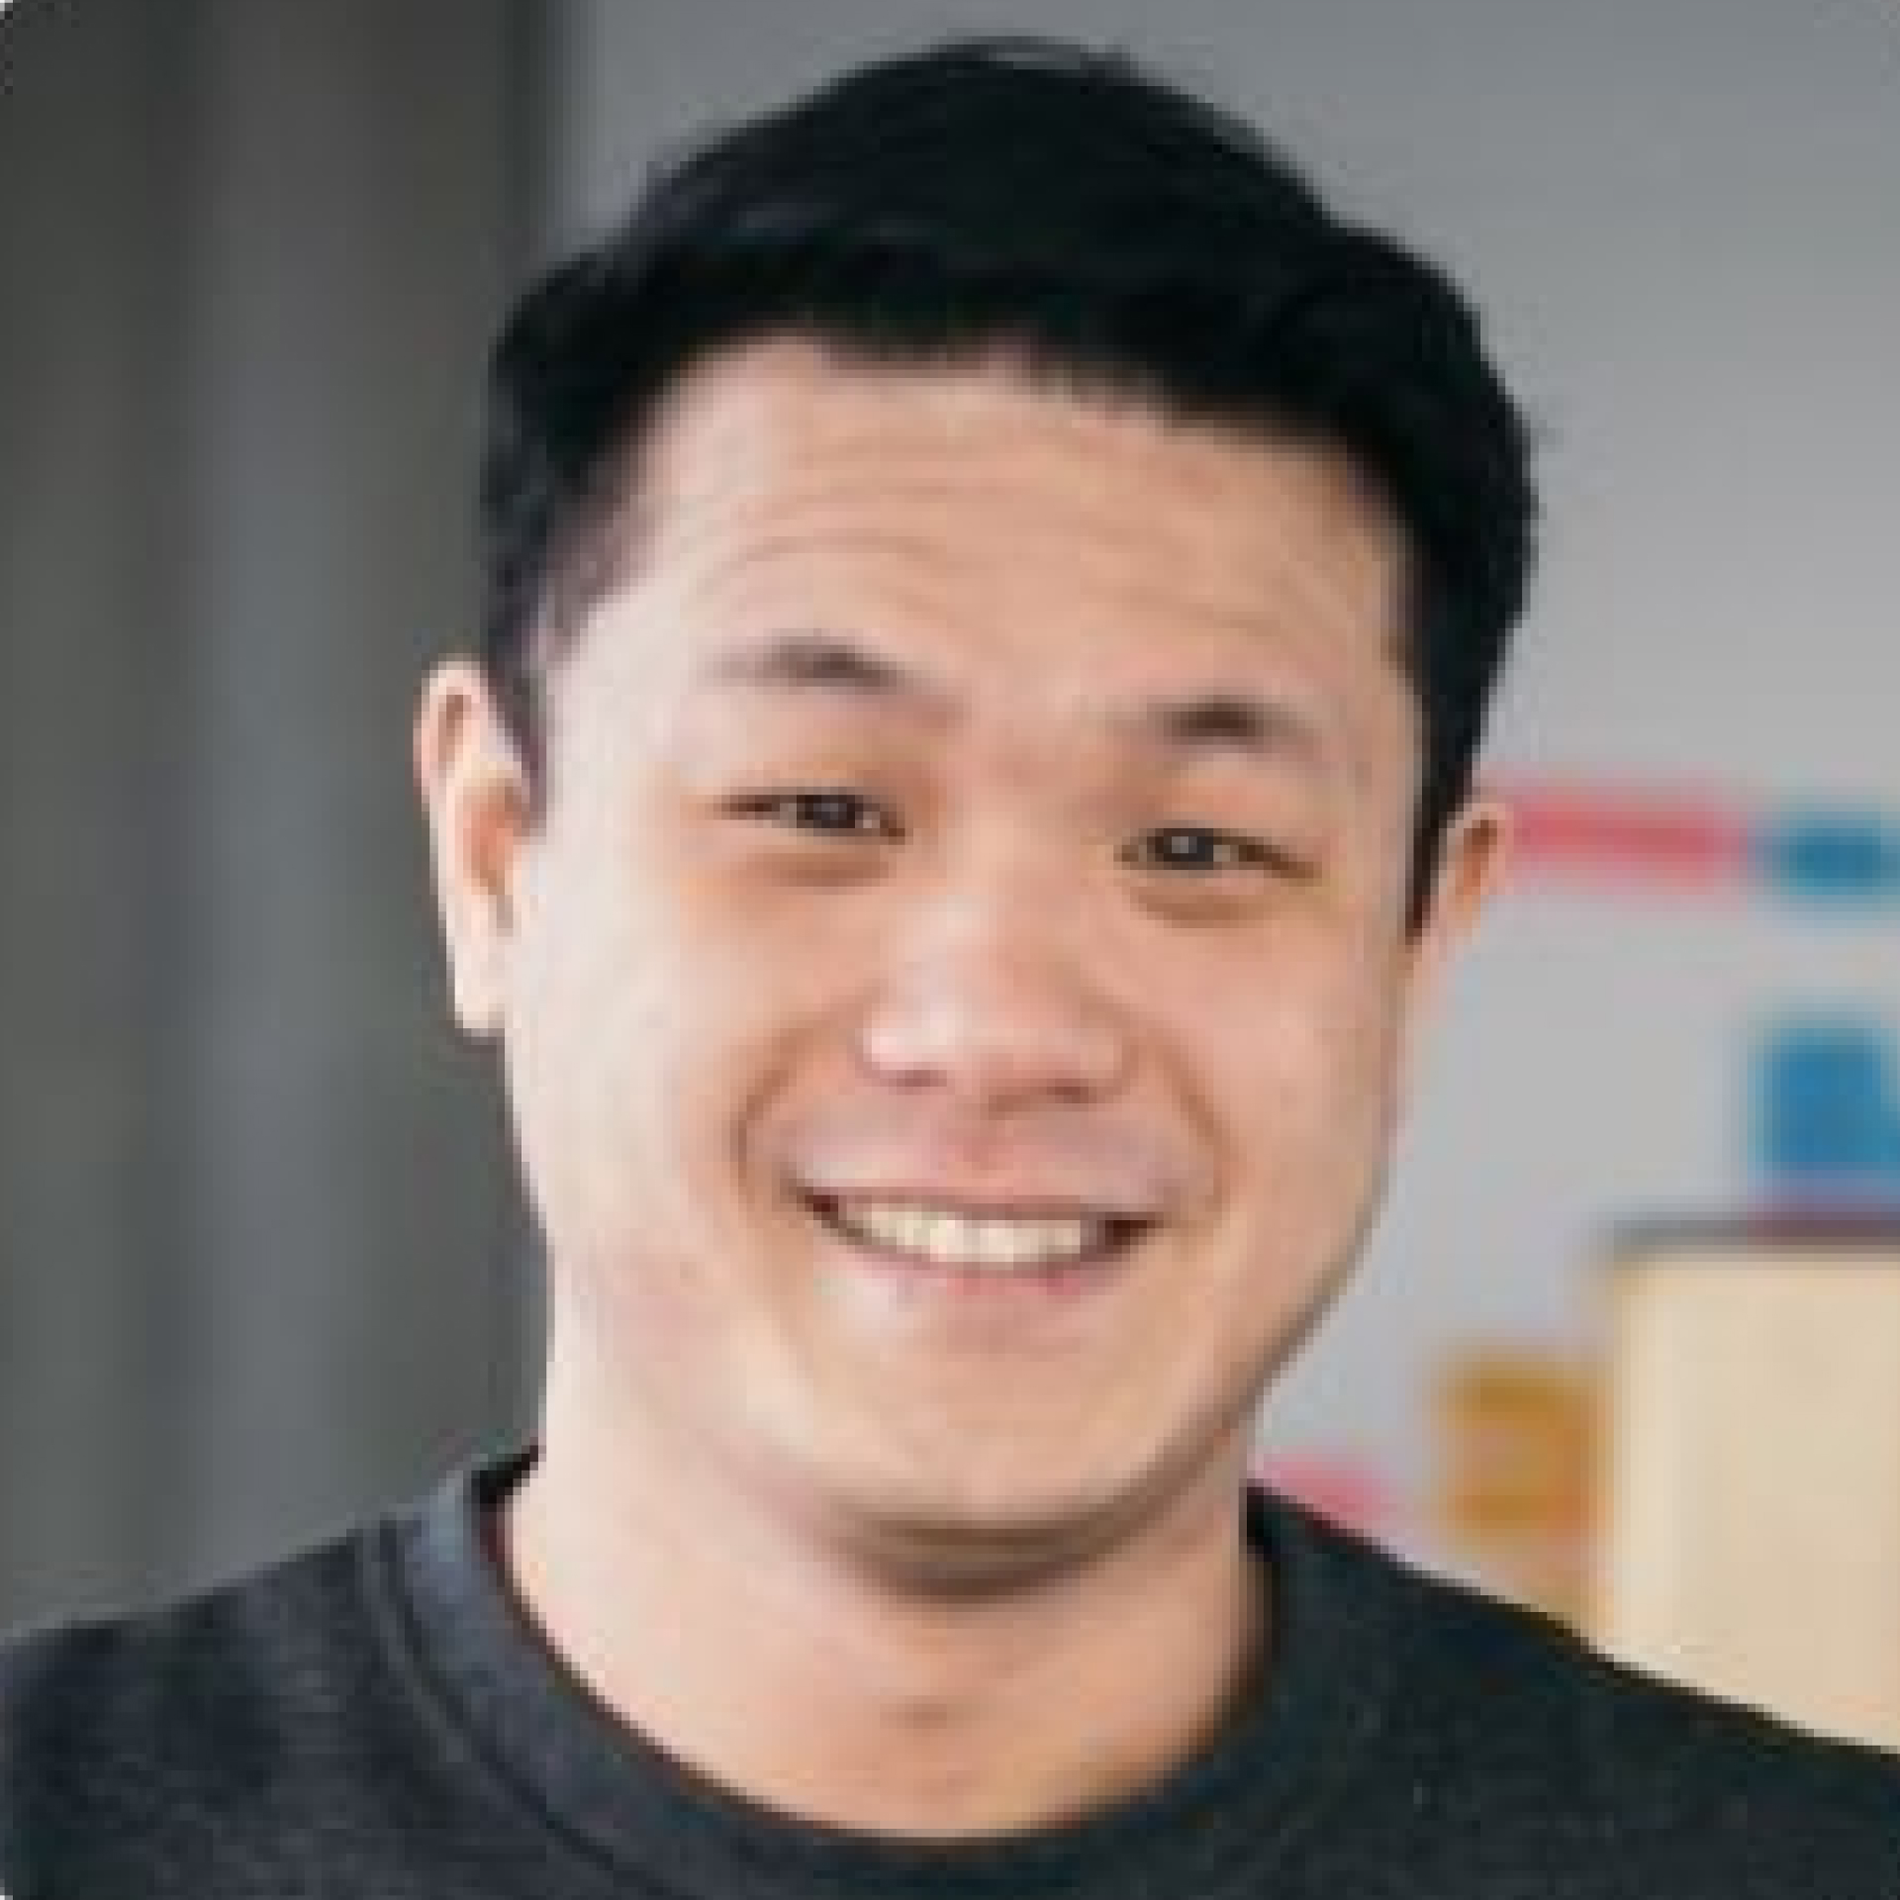
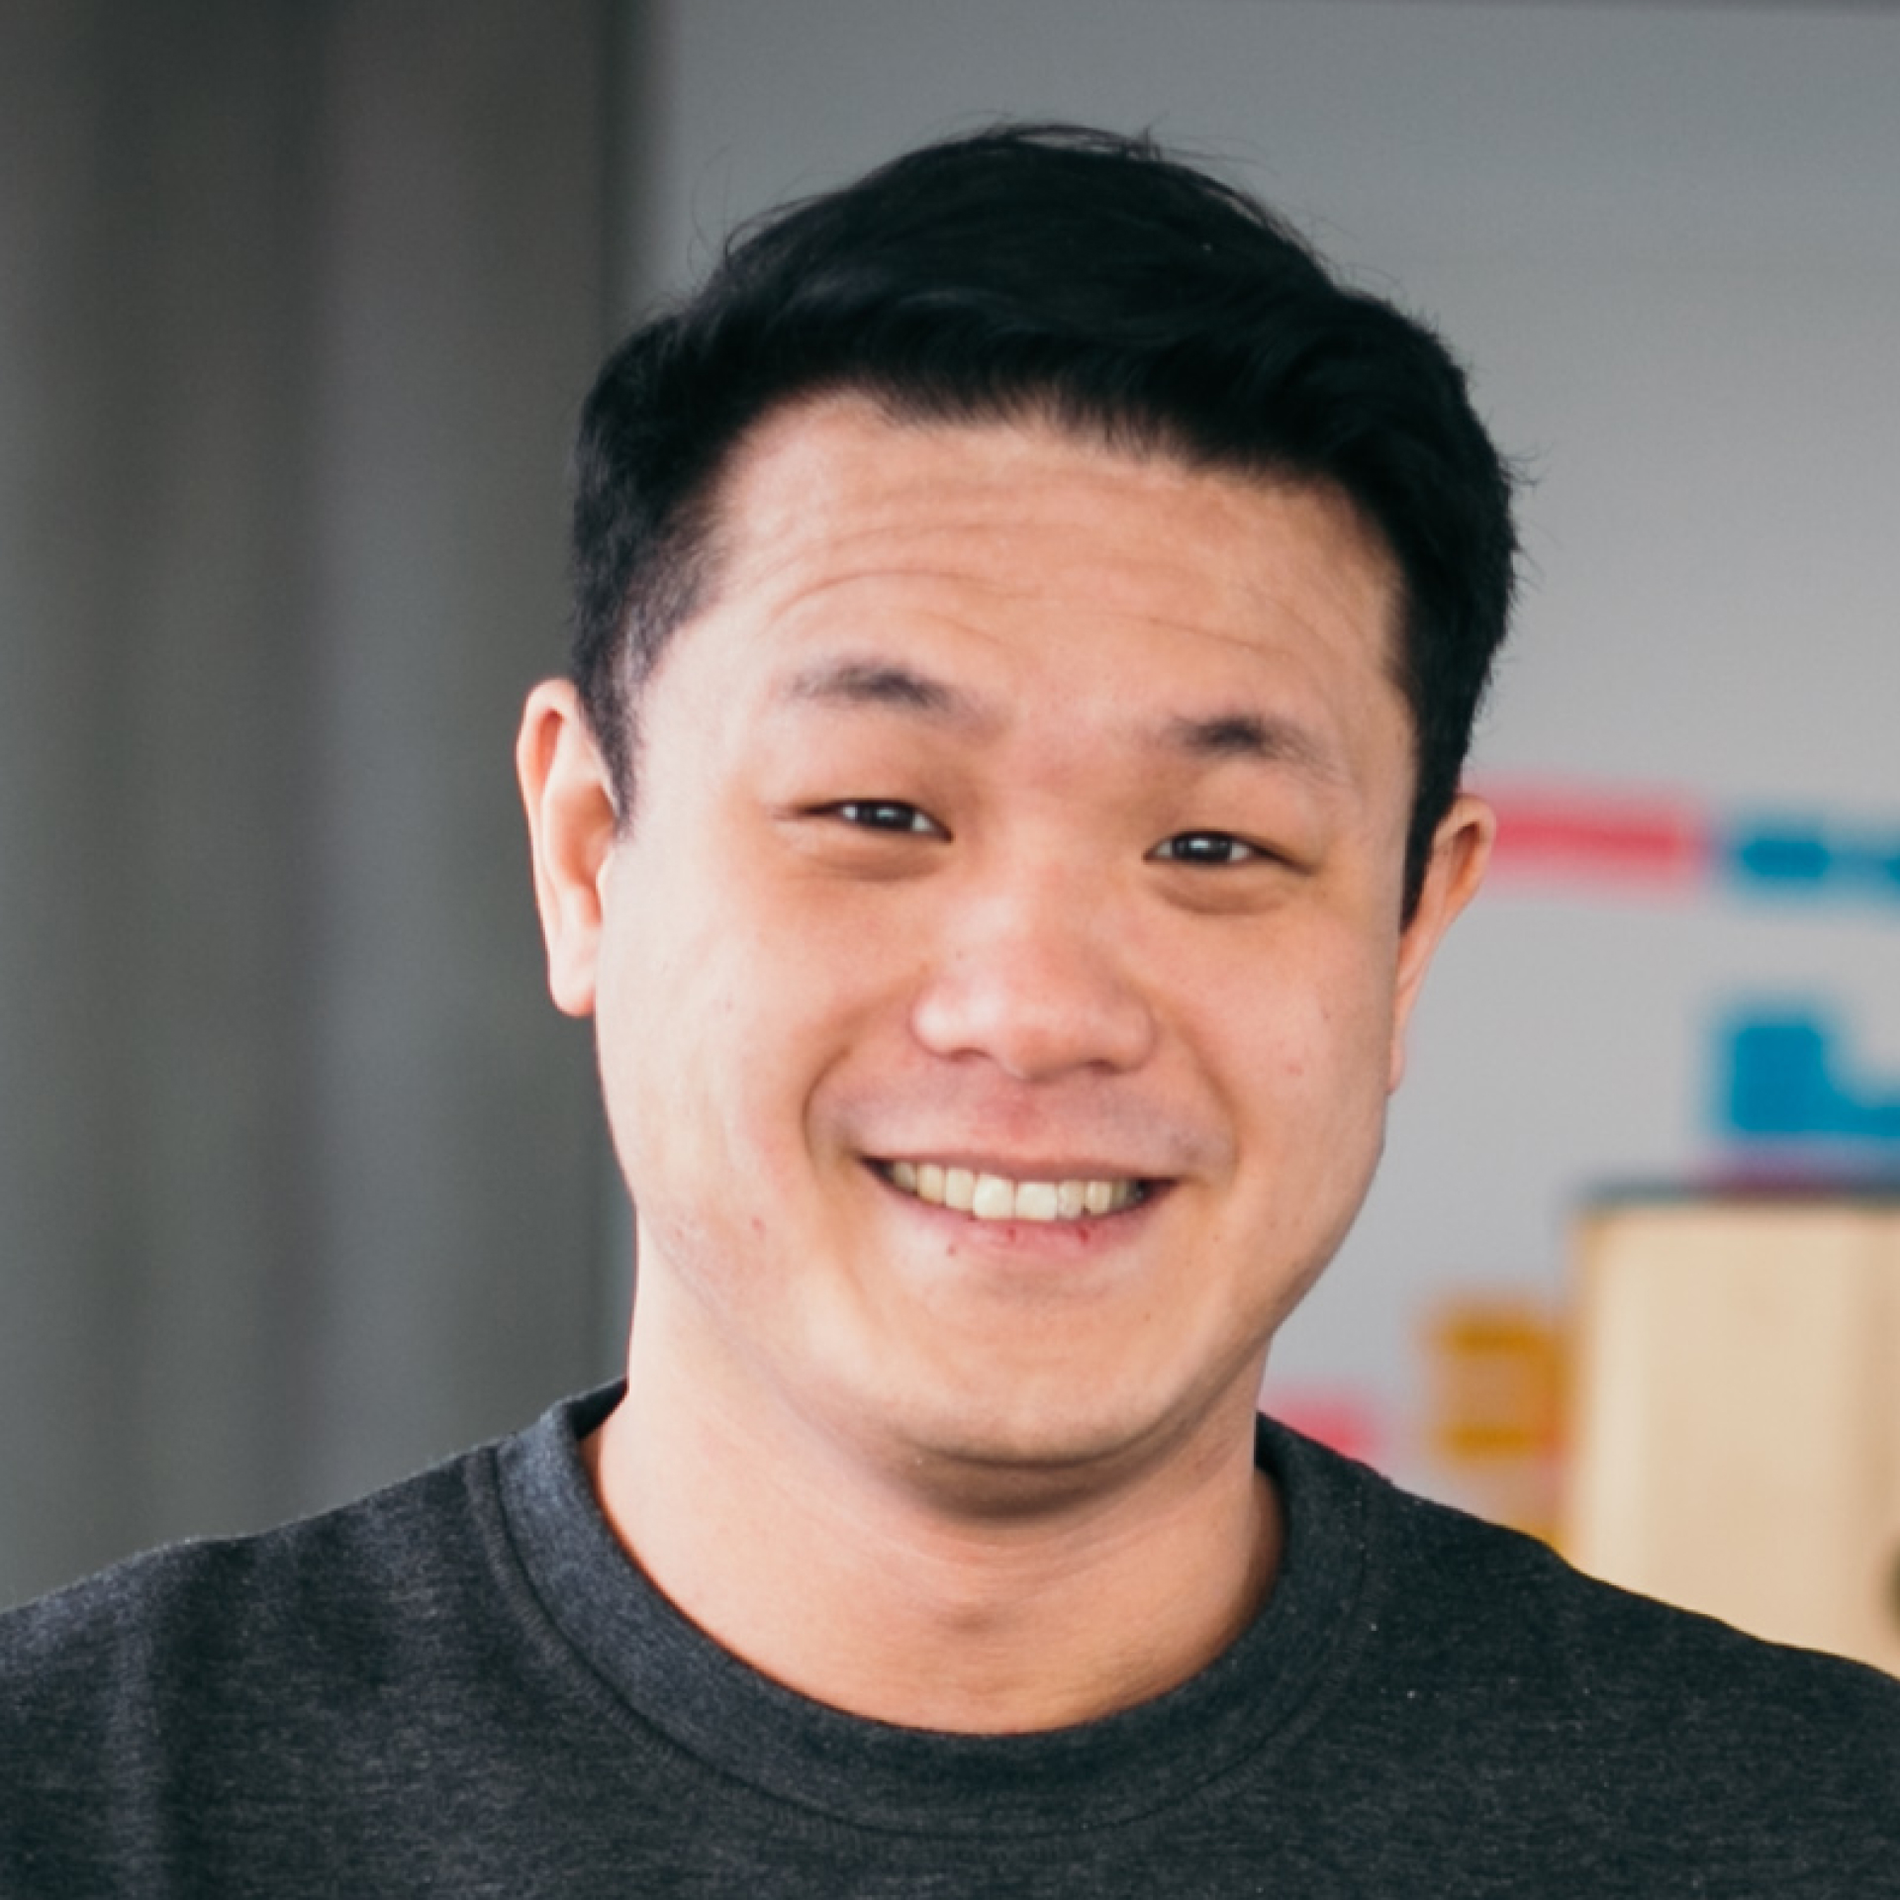
Cdo (#354)
* Ajout ligne "Solene Borrat"

* Maj du lien vers la photo de Solene Borrat

* Coquilles

* Saisie contenu

* Ajout .md au fichier

* Anglicisme

* Ajout photo David Ruiz Martinez

* Changement ordre des 3 dernières ITW

* Changement numéro épisode David Ruiz Martinez

* Changement numéro épisode Ray Ho

* Changement numéro épisode Solene Borrat

* Suppression photo Ray Ho

* Ajout nouvelle photo Ray Ho

---------

diff --git a/content/entretiens/david-ruiz-martinez.md b/content/entretiens/david-ruiz-martinez.md
@@ -1,0 +1,44 @@
+---
+id: david-ruiz-martinez
+firstName: David
+lastName: Ruiz Martínez
+photo: ./photos/david-ruiz-martinez.jpg
+job: VP Design
+company: PayFit
+rs: https://www.linkedin.com/in/davidruizmartinez/
+---
+
+<p class="fr-text--lead">La «&nbsp;Circulaire n°6411-SG relative à la lisibilité des sites internet de l’État et de la qualité des démarches numériques&nbsp;», signée le 7 juillet 2023 par la Première ministre, demande à chaque ministère de désigner un responsable du design. Afin d’incarner ce rôle et ces missions, nous avons échangé avec des responsables du design en poste dans une série d’entretiens, intitulée «&nbsp;Paroles de responsables du design&nbsp;».</p>
+<p class="fr-text--lead">Épisode 7&nbsp;: David Ruiz Martínez, <span lang="en">Vice-President Design</span> chez PayFit.</p>
+
+<h2 class="fr-h6">Pouvez-vous nous expliquer en quoi consiste votre rôle&nbsp;? Quels sont vos principaux enjeux&nbsp;?</h2>
+
+Principalement mon rôle consiste à favoriser et faciliter la création d’un terrain d’expression, d’expérimentation, de créativité et d’innovation par la pratique du design. En tant que VP [vice-président] design, je travaille avec mes équipes pour construire une vision stratégique claire pour concevoir des services et des produits pertinents, responsables, performants et cohérents. Cohérents avec nous-mêmes, qui on est en tant qu’entreprise, notre mission, et cohérents aussi avec les besoins de nos clients.
+Un des enjeux principaux est d’allier les besoins des utilisateurs, les enjeux business, nos valeurs, la technologie et la responsabilité sociale et environnementale de l’entreprise pour les transformer en un service concret, tangible.
+Un élément clé pour réussir est d’assurer la coopération des équipes design entre elles et avec les autres départements chez PayFit. Nous essayons de tirer parti du collectif et de stimuler ainsi la créativité, le changement, le partage de connaissances et la prise de conscience des enjeux <span lang="en">business</span>, écologiques, d’inclusivité et d’accessibilité. Souvent plus complexes à assimiler.
+
+<h2 class="fr-h6">Parlez-nous de votre parcours, comment êtes-vous arrivé au poste que vous occupez aujourd’hui&nbsp;?</h2>
+
+Je suis ingénieur de formation devenu designer au fil du temps grâce à la formation, les expériences, les discussions avec des pairs, des personnes du monde du design&nbsp;; également avec l’envie très naturelle -&nbsp;à l’origine même du choix de devenir ingénieur&nbsp;- de comprendre et de rendre la technologie plus utile, pertinente et responsable. L’ingénierie reste loin dans le temps, mais elle a complété mon profil avec probablement une meilleure compréhension technique (même si ça change très vite et qu’il est difficile de suivre les avancées technologiques). Et aussi une forte appétence pour la compréhension systémique des systèmes complexes, comprendre le tout pour essayer de trouver quelle est la meilleure réponse, quel est le meilleur élément à concevoir qui soit pertinent et qui soit vraiment approprié.
+Mon parcours dans le Design a commencé dans le Telco [télécommunication], avant de se poursuivre dans la banque, la mobilité et finalement les RH&nbsp;; pour des cibles <span lang="en">B2B [Business to business</span>, activités commerciales entre entreprises], <span lang="en">B2C [Business to consumer</span>, commerce entre entreprises et particuliers] <span lang="en">early adopters</span> [premiers consommateurs à adopter un nouveau produit ou une nouvelle technologie] et <span lang="en">B2C mass market</span> [grand public]. J’ai même fait du <span lang="en">B2G</span>, du <span lang="en">business to government</span> [commerce entre entreprises et entités du secteur public], dans la mobilité. J’ai eu la chance de travailler sur des projets de transformation par le design très complexes, différents et avec des impacts variés. Par exemple, travailler sur la création d’une banque à partir de zéro pour un gros opérateur Telco&nbsp;; ou concevoir la transformation totale de l’expérience et de la proposition de valeur d’une application de mobilité très grand public, en France, SNCF Connect. Aujourd’hui, chez PayFit je suis ravi de pouvoir aider à simplifier et à rendre plus accessible la paie et les processus RH pour les petites et moyennes entreprises.
+
+<h2 class="fr-h6">Comment travaillez-vous avec les autres membres de l’équipe dirigeante de votre organisation&nbsp;?</h2>
+
+Nous assurons une très forte cohésion de la triforce (Tech, <span lang="en">Product Management</span> et Design) structurée autour d’une puissante culture du <span lang="en">feedback</span>, de l'honnêteté et de la transparence. Cette culture est portée globalement et de façon organique au sein de PayFit. Le travail devient plus simple et engageant à partir du moment où la discussion et la capacité de challenger tous les acteurs de l’entreprise sont présentes de manière très sincère et bienveillante. Nous confrontons nos idées, on décide et après, on est collectivement solidaires. 
+
+<h2 class="fr-h6">En tant que VP design, vous reportez au <span lang="en">Chief product officier</span> [<span lang="en">CPO</span>, en charge de la stratégie Produit]. Quels sont les autres VP qui reportent aussi au <span lang="en">CPO</span>&nbsp;?</h2>
+
+En effet, je reporte au <span lang="en">CPO</span> avec le <span lang="en">VP product management</span>, le <span lang="en">VP data</span> et le responsable <span lang="en">product ops</span>. 
+
+<h2 class="fr-h6">Comment mesurez-vous l’impact de votre travail sur les résultats de votre organisation&nbsp;?</h2>
+
+L’impact du design sur le court terme est relativement facile à mesurer, ce qui est plus complexe pour nous est de mesurer l’impact sur le long terme et l’impact plus systémique de nos choix et nos conceptions.
+Sur le court terme nous suivons des indicateurs <span lang="en">Business</span>, UX, Satisfaction Client et Accessibilité par exemple. Nous mesurons la fluidité, la simplicité, la qualité de nos parcours et la pertinence du niveau d’autonomie proposé à nos clients. Finalement, nous évaluons régulièrement l’épanouissement des designers.
+Afin de mesurer l’impact sur le long terme, on ajoute des indicateurs qui vont nous permettre de vérifier l’adéquation de notre proposition de valeur aux principes design et à la mission et valeurs de l’entreprise. Trouver des indicateurs pour chaque élément représentatif de notre stratégie long terme est important. Finalement, des indicateurs pour mesurer notre impact environnemental peuvent être mis en place.
+Au quotidien il n’y a pas besoin de suivre dix mille indicateurs&nbsp;; c’est important de suivre uniquement ceux qui sont très significatifs pour les personnes qui les regardent. Le <span lang="en">CPO </span> ne va pas regarder les mêmes indicateurs que les product designers qui sont dans une équipe de travail spécifique. Et c’est très bien.
+
+<h2 class="fr-h6">Dernière question&nbsp;: quelle question auriez-vous aimé que l’on vous pose, et quelle est la réponse&nbsp;?</h2>
+
+Avec les années on grandit, on devient plus mature, souvent on est capable de mieux relativiser, de contextualiser et de prendre du recul&nbsp;; de penser stratégiquement, d’avoir des convictions et de nous traiter avec plus d’exigence mais aussi de bienveillance. On connaît nos défauts et nos capacités.
+En revanche, j’aime imaginer qu’est-ce que mon «&nbsp;moi&nbsp;» d’il y a 20 ans me dirait aujourd’hui, quels conseils et remarques. Ça serait ma question. «&nbsp;Qu’est-ce que le David d’il y a 20 ans te dirait aujourd’hui s’il avait l’opportunité&nbsp;? &nbsp; »
+Je pense qu’il me dirait certainement d’être plus tactique, plus rapide, plus malin et plus rebelle. Il m’inviterait à renforcer les habitudes qui m’ont fait grandir et m’ont aidé à me définir en tant que designer, professionnel et personne&nbsp;: s’enrichir davantage d’autres disciplines, du passé et de l’actualité et surtout des personnes. Dédier plus de temps pour mes relations interpersonnelles pro et perso et aussi pour des nouvelles expériences. Il me dirait aussi de prendre le temps de m’écouter plus sur mes convictions mais aussi sur les signaux d’alerte. Et finalement, je pense qu’il me dirait qu’il est fier de me voir faire un travail qui me passionne.

diff --git a/content/entretiens/solene-borrat.md b/content/entretiens/solene-borrat.md
@@ -2,7 +2,7 @@
 id: solene-borrat
 firstName: Solène
 lastName: Borrat
-photo: ./photos/vanessa-guilloteau.jpg
+photo: ./photos/solene-borrat.jpg
 job: Head of Product Design Europe
 company: Getaround
 rs: https://www.linkedin.com/in/sol%C3%A8ne-borrat-0a5b8649/
@@ -10,7 +10,7 @@ rs: https://www.linkedin.com/in/sol%C3%A8ne-borrat-0a5b8649/
 
 <p class="fr-text--lead">La «&nbsp;Circulaire n°6411-SG relative à la lisibilité des sites internet de l’État et de la qualité des démarches numériques&nbsp;», signée le 7 juillet 2023 par la Première ministre, demande à chaque ministère de désigner un responsable du design. Afin d’incarner ce rôle et ces missions, nous avons échangé avec des responsables du design en poste dans une série d’entretiens, intitulée «&nbsp;Paroles de responsables du design&nbsp;».</p>
 
-<p class="fr-text--lead">Épisode 9&nbsp;: Solène Borrat, <span lang="en">Head of Product Design Europe</span> chez <span lang="en">Getaround</span>.</p>
+<p class="fr-text--lead">Épisode 8&nbsp;: Solène Borrat, <span lang="en">Head of Product Design Europe</span> chez <span lang="en">Getaround</span>.</p>
 
 <h2 class="fr-h6">Pouvez-vous nous expliquer en quoi consiste votre rôle&nbsp;? Quels sont vos principaux enjeux&nbsp;?</h2>
 

diff --git a/content/articles/2023-10-18-paroles-de-responsables-du-design.md b/content/articles/2023-10-18-paroles-de-responsables-du-design.md
@@ -29,7 +29,9 @@ Paroles de responsables du design, les entretiens&nbsp;:
 4. [Alessandro Catania, <span lang="en">Product Design Director</span> chez Air Liquide](/entretiens/alessandro-catania/)
 5. [Jean-Marc Denis, <span lang="en">Design Director</span> chez Meta](/entretiens/jean-marc-denis/)
 6. [Didier Boulet, <span lang="en">Group Chief Design Officer</span> chez Thales](/entretiens/didier-boulet/)
-7. Ray Ho, <span lang="en">Director of design</span> chez <span lang="en">Back Market</span> (à venir)
-8. David Ruiz Martínez, <span lang="en">VP design</span> chez <span lang="en">PayFit</span> (à venir)
+7. David Ruiz Martínez, <span lang="en">VP design</span> chez <span lang="en">PayFit</span> (à venir)
+8. Solène Borrat, <span lang="en">Head of Product Design</span> Europe chez Getaround (à venir)
+9. Ray Ho, <span lang="en">Director of design</span> chez <span lang="en">Back Market</span> (à venir)
+
 
 Merci à elles et eux d’avoir pris le temps de nous répondre. 😊

diff --git a/content/entretiens/ray-ho.md b/content/entretiens/ray-ho.md
@@ -10,7 +10,7 @@ rs: https://www.linkedin.com/in/rayhoooooooo/
 
 <p class="fr-text--lead">La «&nbsp;Circulaire n°6411-SG relative à la lisibilité des sites internet de l’État et de la qualité des démarches numériques&nbsp;», signée le 7 juillet 2023 par la Première ministre, demande à chaque ministère de désigner un responsable du design. Afin d’incarner ce rôle et ces missions, nous avons échangé avec des responsables du design en poste dans une série d’entretiens, intitulée «&nbsp;Paroles de responsables du design&nbsp;».</p>
 
-<p class="fr-text--lead">Épisode 7&nbsp;: Ray Ho, <span lang="en">Director of Design</span> chez <span lang="en">Back&nbsp;Market</span>.</p>
+<p class="fr-text--lead">Épisode 9&nbsp;: Ray Ho, <span lang="en">Director of Design</span> chez <span lang="en">Back&nbsp;Market</span>.</p>
 
 _Nota bene&nbsp;: l’entretien s’est tenu en anglais, la version originale est en dessous de la version traduite en français._
 
